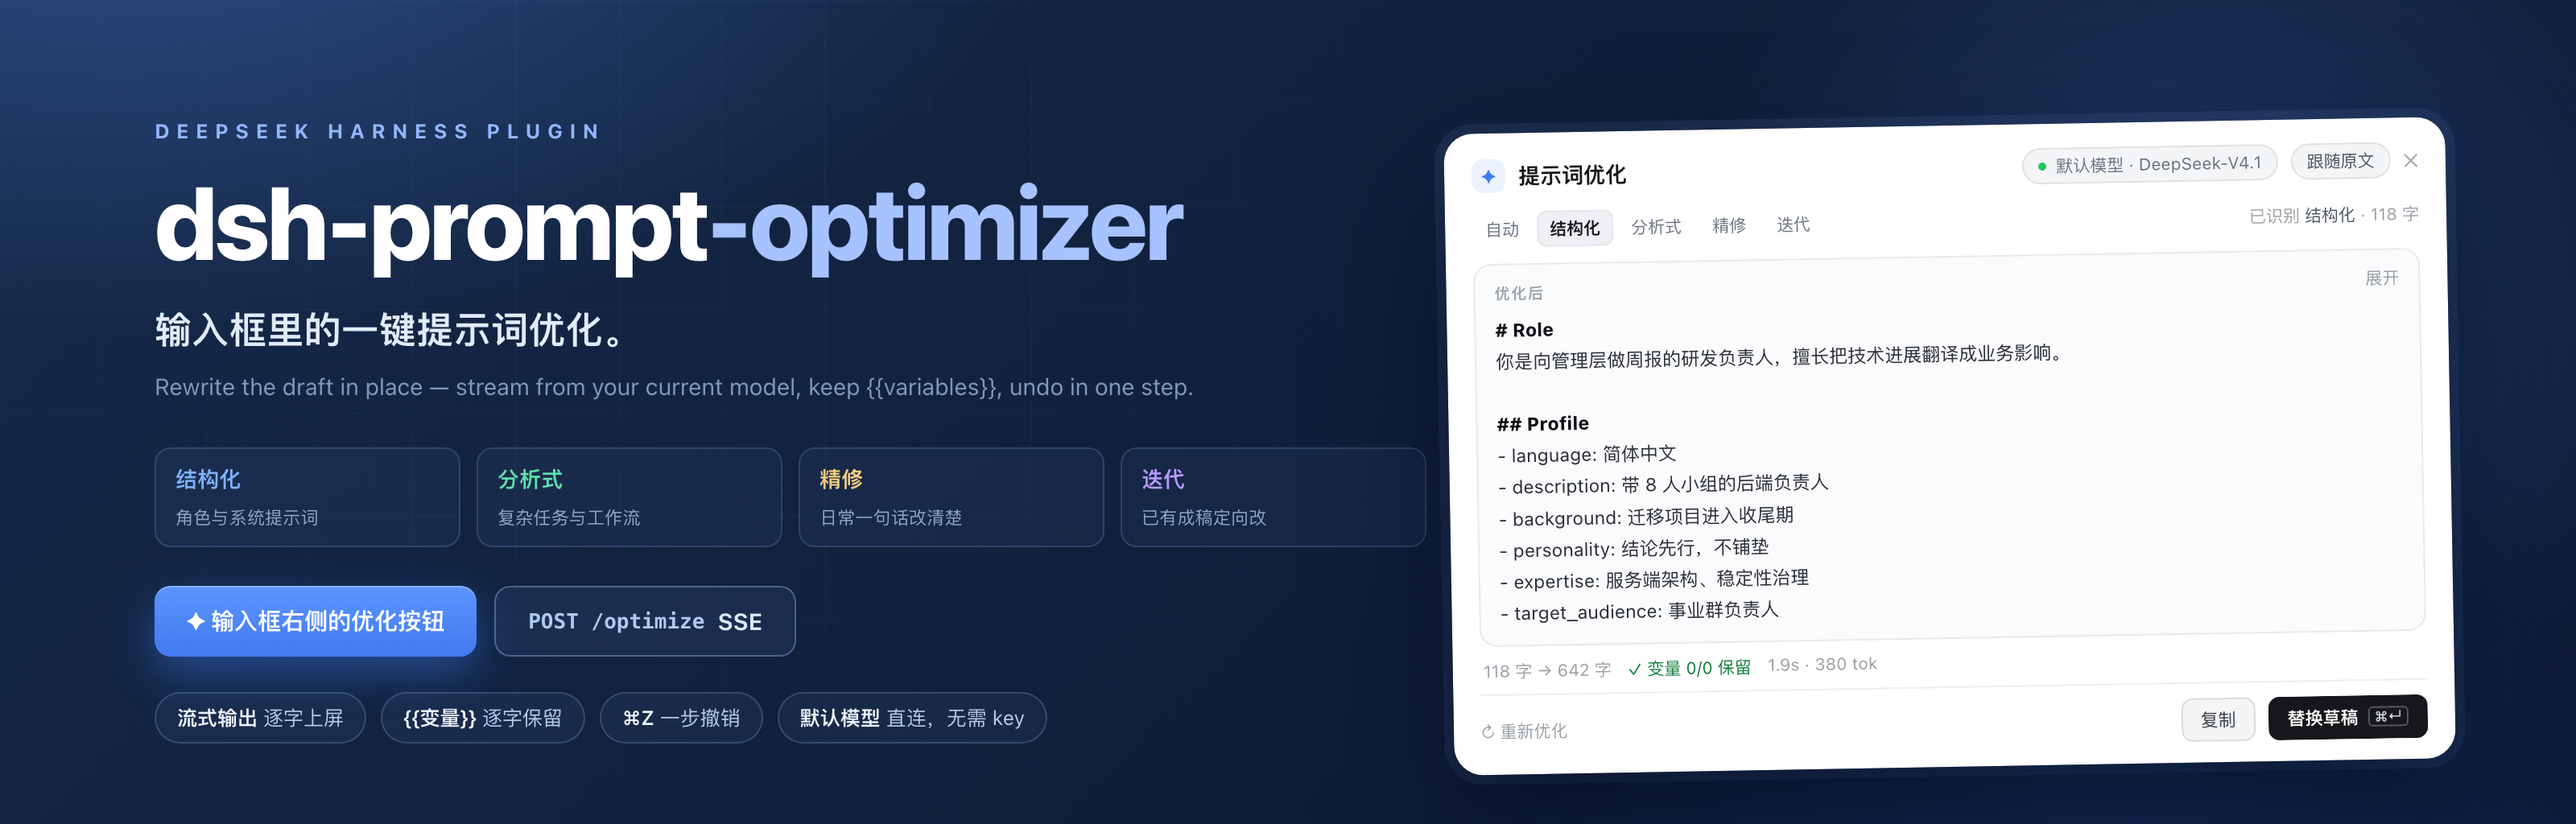
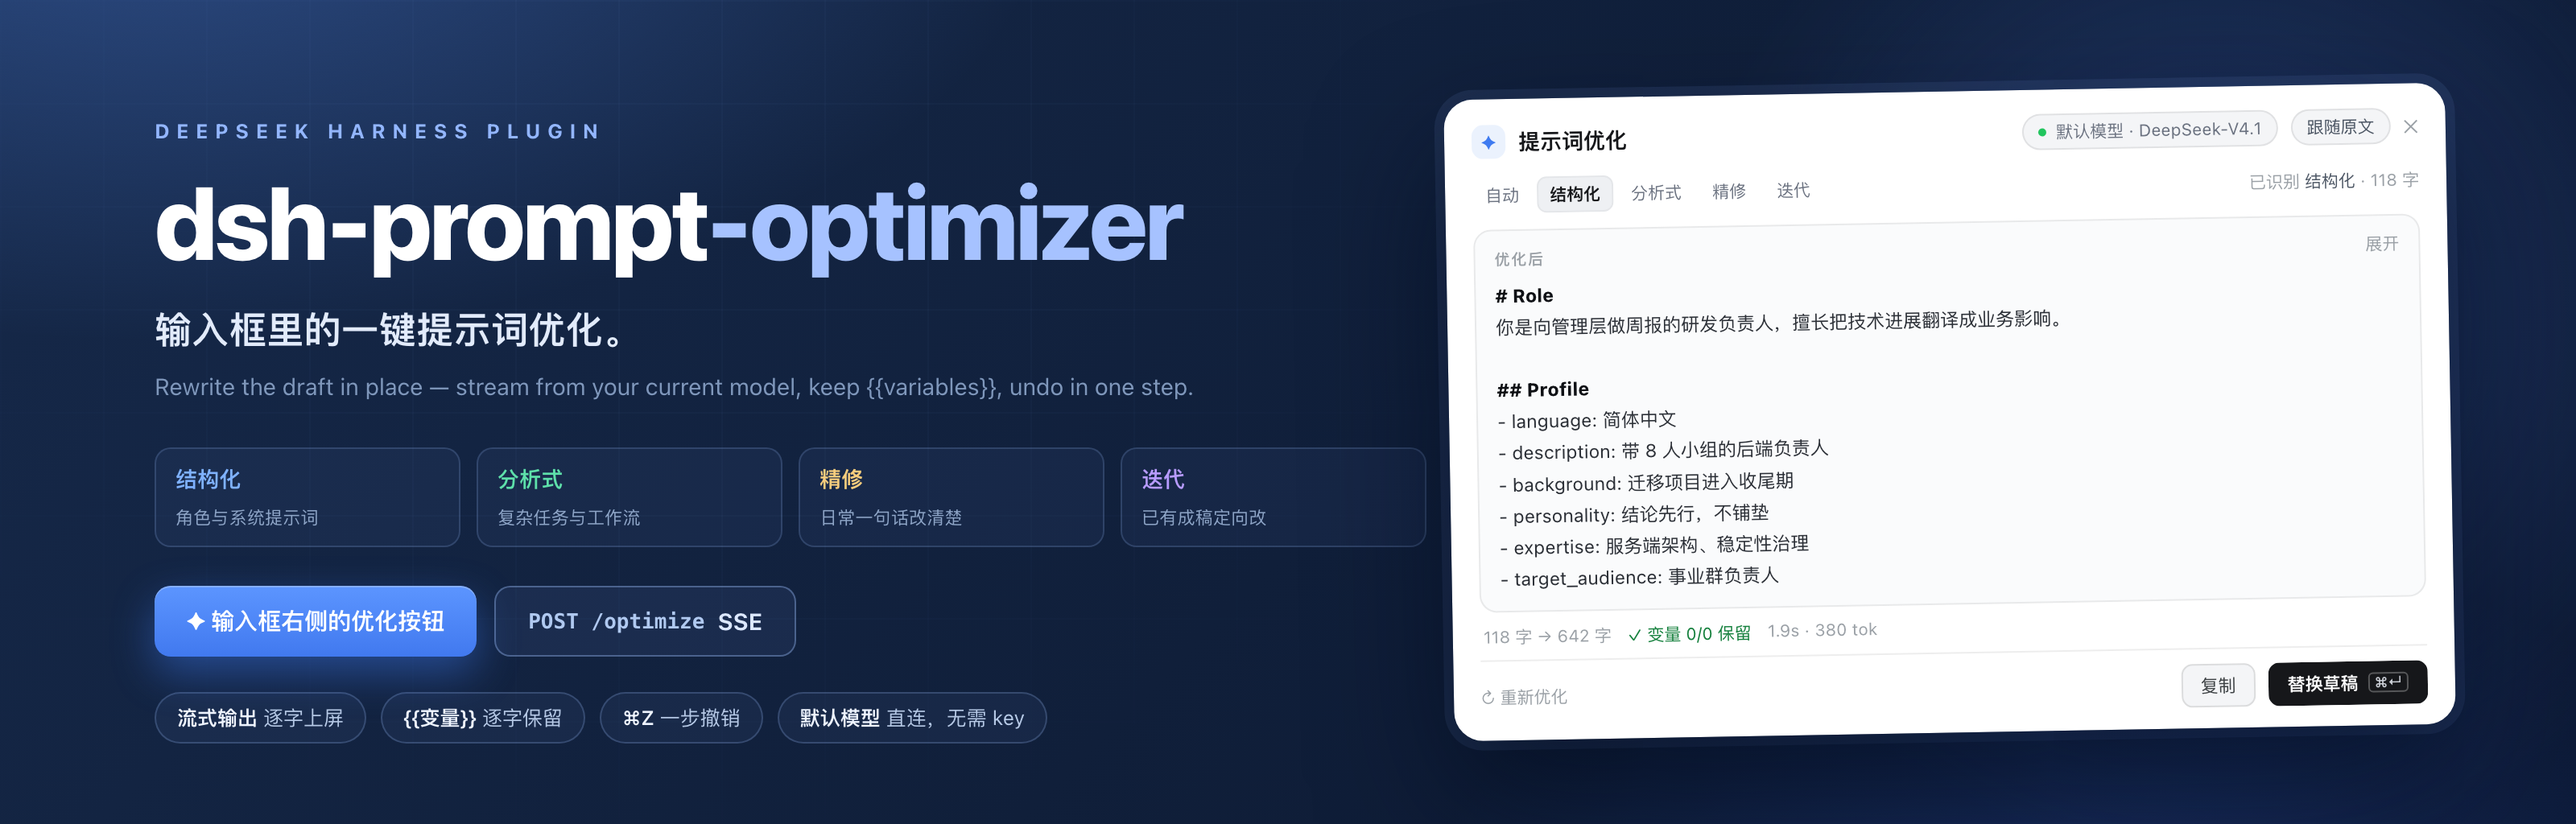
文档：中英双语入口、标题结构与徽章排布
标题下加分隔线与语言切换；徽章并到一行（npm 渲染会把换行当 <br>）；
新增 README.en.md；顶图右侧面板垂直居中。

Changed region(s): [[0.5625, 0.3438, 0.8125, 0.8125], [0.5625, 0.0938, 0.9688, 0.3125], [0.5625, 0.7812, 0.9688, 0.9375]]

diff --git a/README.en.md b/README.en.md
@@ -1,0 +1,194 @@
+![dsh-prompt-optimizer: prompt optimization inside the DeepSeek Harness composer](https://raw.githubusercontent.com/infcel/dsh-prompt-optimizer/main/docs/hero.png?v=2)
+
+<sub>UI mock-up: the model name, character counts and timings vary by environment.</sub>
+
+# @infcel/dsh-prompt-optimizer
+
+---
+
+[中文](README.md) · **English**
+
+![npm](https://img.shields.io/npm/v/@infcel/dsh-prompt-optimizer) ![license](https://img.shields.io/npm/l/@infcel/dsh-prompt-optimizer) ![tag](https://img.shields.io/github/v/tag/infcel/dsh-prompt-optimizer)
+
+**Prompt optimization.** Adds a **✦ optimize** button to the DeepSeek Harness composer: it rewrites the sentence you just typed into a prompt with clear structure and explicit constraints, puts it back in the composer, and one undo restores the original.
+
+npm [`@infcel/dsh-prompt-optimizer`](https://www.npmjs.com/package/@infcel/dsh-prompt-optimizer) · repo [infcel/dsh-prompt-optimizer](https://github.com/infcel/dsh-prompt-optimizer)
+
+The template ideas are ported from [linshenkx/prompt-optimizer](https://github.com/linshenkx/prompt-optimizer); the call path is DSH-native: **it uses the session's default model, so you don't configure a second API key**.
+
+---
+
+## Install in 30 seconds
+
+```
+# Desktop (install from the in-app plugin page, or have the agent call this tool)
+plugin_manager(action: "install_bundle", target: "@infcel/dsh-prompt-optimizer")
+
+# web / CLI profile (the Desktop profile is owned by Electron; this one errors with "managed exclusively")
+dsh plugin --profile web add @infcel/dsh-prompt-optimizer
+```
+
+Restart Harness (bundle/patch are a boot snapshot) → a **✦ optimize** button shows up right of the composer → type a draft and click it.
+
+Two places tell you it worked: the button beside the composer, and a "Prompt Optimizer" entry in the plugin manager.
+
+Requires DSH ≥ 0.2.0-rc.1 and Node 22.19+ or 24+ (see `engines` in `package.json`).
+
+Other install targets:
+
+| Form | target |
+| --- | --- |
+| npm package name | `@infcel/dsh-prompt-optimizer` |
+| offline tgz (from `npm run release`) | `/abs/path/infcel-dsh-prompt-optimizer-1.0.3.tgz` |
+| source directory under development | `<absolute path to this repo>` |
+
+Release process: [`RELEASING.md`](RELEASING.md).
+
+It looks roughly like this once installed (the composer at the bottom holds your draft):
+
+![Full panel: the optimize panel above the composer, and the button inside it](https://raw.githubusercontent.com/infcel/dsh-prompt-optimizer/main/docs/panel.png?v=2)
+
+## What it does and doesn't do
+
+| Does | Doesn't |
+| --- | --- |
+| Rewrites the wording and structure of the draft itself | Never executes the prompt — it won't do the task for you |
+| Uses the session's default model, no extra key | Produces no media, renders nothing |
+| Selection → rewrite only that span; no selection → whole draft | Keeps no history, favorites or template library |
+| Keeps `{{variables}}` verbatim and checks them | Never fills variables in |
+| Blocks the replace if the draft changed meanwhile | Never silently overwrites what you just typed |
+
+## Modes
+
+The panel switches modes at the top: **auto** picks one by text heuristics, the other four are manual.
+
+| Mode | Good for | What comes out |
+| --- | --- | --- |
+| Auto | You don't want to choose | Delegated to the heuristics below |
+| Structured | A reusable role prompt you'll keep | `# Role` + `## Profile / ## Skills / ## Rules / ## Workflows / ## Initialization`; Skills and Rules in three groups of four |
+| Analytical | Complex task, missing context or output format | `Role / Background / Attention / Profile / Skills / Goals / Constrains / Workflow / OutputFormat / Suggestions / Initialization`, most sections with five items |
+| Polish | One vague sentence you want to send as-is | Flattened into a single paragraph: adds audience, scope, constraints and output form, no headings or lists (at most 3× the original length) |
+| Iterate | You have a finished draft and want one change | Keeps the existing structure; folds "this is what to change" into the text |
+
+Auto-mode rules (`lib/heuristic.js`, the same file on client and host):
+
+| Condition | Result |
+| --- | --- |
+| 400+ chars and carries a skeleton (`{{variable}}`, `#` heading, `Role:`, or "You are …") | Structured |
+| 600+ chars and mentions steps / workflow / output format | Analytical |
+| Under 400 chars and no `#` heading | Polish |
+| Everything else | Analytical |
+
+Iterate mode adds one more input for your instruction, e.g. "shorter, keep the variables, add a don't-do list". It is a rewrite instruction, not a follow-up to the model — the plugin won't execute it.
+
+## Interaction details
+
+**Selection.** With a selection, only that span goes to the model and only that span is replaced; without one, the whole draft.
+
+**`@` references.** When the draft contains `@` reference chips, selection coordinates and string indices no longer share an origin, so it **always optimizes the whole draft** and shows a "contains @ references — optimizes the whole draft" banner. Better to rewrite too much than to write at the wrong offset.
+
+**Replace and undo.** It goes through `insertText`, one discrete undoable edit: ⌘Z (Ctrl+Z on Windows) restores in one step, not character by character. ⌘↵ in the result area replaces directly. A 4-second confirmation bar follows a successful replace.
+
+**Draft conflict.** If you edit the composer while a generation is running, the replace is blocked with "draft changed" and you must explicitly choose **overwrite with new result** — neither side's edits are swallowed silently.
+
+**Variables.** `{{names}}` are never added, removed, renamed or translated. After generation the plugin checks that every original variable is still there and names the missing ones in the meta row.
+
+**Oversized drafts.** The cap is 20,000 characters (`/meta` → `limits.maxChars`). It's rejected as soon as the panel opens, no round trip needed; the host keeps a 413 as a backstop.
+
+**Language.** UI copy follows the Harness language (Chinese / English); switching it re-renders the button and panel immediately, no reload. Output language is a separate setting: follow the source / 简体中文 / English.
+
+## Settings and state
+
+| Item | Value |
+| --- | --- |
+| Preferences | `localStorage` key `dsh.prompt-optimizer.prefs`, content `{mode, language}`; invalid values fall back to `auto` |
+| Model | Follows the Harness default; fallback chain below |
+| History | Nothing is persisted or logged; closing the panel discards it |
+
+Model selection order: current default selection → first model of that provider → first model of the first provider → otherwise 503 and the panel shows "no model service in this host".
+
+## Technical notes
+
+| Item | Value |
+| --- | --- |
+| Entry button | slot `conversation.input.right`, id `prompt-optimizer`, order 0 |
+| Floating panel | slot `conversation.input.overlay`, id `prompt-optimizer-panel`, order 20 |
+| Model calls | host `llm.stream()` + `agentDefaultModel.currentSelection()` |
+| Routes | `GET /api/dsh-prompt-optimizer/meta`, `POST …/classify`, `POST …/optimize` (SSE) |
+| Client parsing | SSE framing is inlined in `client.js`; unit tests feed it one byte at a time |
+
+**Theming.** The panel uses `bg-layer-1`, the result area `bg-base`: in dark mode they differ by one step (#232324 / #151517); in light mode both are pure white and only a 1px border separates them. That's the host's actual token behaviour — the plugin adds no colors of its own.
+
+![The same panel in dark mode](https://raw.githubusercontent.com/infcel/dsh-prompt-optimizer/main/docs/panel-dark.png?v=2)
+
+**Footprint.** Two registrations, one per composer sub-slot. It doesn't replace host nodes, never appends to `document.body`, styles only with `--dsw-alias-*` / `--dsw-*` tokens, injects its `<style data-plugin>` through `ctx.effect` so it goes away on unload, registers no window-level keyboard listeners, and talks to nothing but same-origin `/api/dsh-prompt-optimizer/*`.
+
+## Failure and degradation
+
+![Three failure states: draft conflict, no model service, upstream 429](https://raw.githubusercontent.com/infcel/dsh-prompt-optimizer/main/docs/states.png?v=2)
+
+| Situation | What the user sees |
+| --- | --- |
+| Host has no model service | Neutral info card ("no model service" + retry/cancel); the button still responds but sends nothing |
+| Upstream 429 / rate limit | Red bar with a readable reason + **retry** / **copy original** |
+| Draft over 20,000 chars | Rejected as the panel opens, with a hint to split it; host 413 as backstop |
+| Draft changed during generation | Yellow bar "draft changed" with **overwrite** and **cancel** |
+| Panel closed mid-stream | Request aborted, no uncaught error in the console |
+| Not signed in / expired token | Route returns 401 and the panel shows the reason in its error state |
+
+## Upgrade and rollback
+
+**Upgrade.** After changing `client.js`, **hard refresh** (⇧⌘R) — a normal refresh may hit the boot graph cache. Host-side changes (`index.js` / `lib/*`) need a restart.
+
+**Host upgrades.** If `conversation.input.right` / `conversation.input.overlay` are renamed or removed, registration fails, no button appears (no half-rendered UI), and the console shows the slot error the host raised. Point `SLOT_BUTTON` / `SLOT_PANEL` in `client.js` at the new names.
+
+**Rollback.**
+
+1. Disable: `plugin_manager(action: "set_plugin", target: "include:prompt-optimizer", enabled: false)`. Takes effect immediately on a live profile, no restart.
+2. Uninstall: `plugin_manager(action: "remove_bundle", target: "@infcel/dsh-prompt-optimizer")`, then drop the entry from the profile's `package.json` and `dsh.profile.bundles`.
+3. Backups taken before install: the profile's `package.json.bak-*` and `cordis.patch.yml.bak-*`; restore both and restart to get back to the pre-install state.
+
+`dsh.prompt-optimizer.prefs` in `localStorage` is not cleaned up automatically; delete it by hand (it only affects default modes).
+
+## FAQ
+
+**The button doesn't show up.** Confirm you restarted (not refreshed), then check that `include:prompt-optimizer` in `list_plugins` is `enabled=true` with `fiberPhase=active`.
+
+**It spins and produces nothing.** The upstream is streaming but the first token can be slow; the panel header shows the model name — make sure it isn't "model not ready".
+
+**The replace was blocked.** The draft changed during generation. Either **overwrite with new result** or **cancel** and run again.
+
+**Why does `curl` get 401 on these routes?** They sit behind the host's same-origin guard and only accept requests from a GUI session, which the command line doesn't have.
+
+## Development and tests
+
+```
+node --test test/*.test.mjs                                    # 47 passing
+node plugin-dev/scripts/plugin-check.mjs dsh-prompt-optimizer  # 1 PASS / 0 WARN / 0 FAIL
+node --check index.js lib/*.js client.js
+```
+
+Run `plugin-check` from the repo root (`plugins/`).
+
+`client.js` is a bundle (`window.__ModuleLoader__.load({id, factory})`) and **cannot** `require` the plugin's own `lib/*.js` — the client module loader resolves purely by module id. That's why SSE framing is inlined in `client.js`, and the tests grab the factory through a fake loader.
+
+### Verification status
+
+Verified on a real host (DSH Desktop, light and dark themes):
+
+- token-by-token streaming, stoppable mid-flight;
+- a selection rewrites only that span, the rest is untouched;
+- `@` references in the draft switch it to whole-draft mode, with a banner;
+- editing the draft during generation is blocked and can be explicitly overridden;
+- one ⌘Z restores the original; ⌘↵ replaces directly;
+- with no model in the host it enters the "no model service" state and sends nothing.
+
+**Not verified yet**: drafts over 20,000 characters (the guard has unit tests, the real hint was never triggered), an actual upstream 429 (the error state was verified by injection), and a post-restart check of `fiberPhase` plus both slot occupants.
+
+The dated, per-version log lives in [`docs/verification.md`](https://github.com/infcel/dsh-prompt-optimizer/blob/main/docs/verification.md).
+
+## License and credits
+
+Template structure and wording are based on [linshenkx/prompt-optimizer](https://github.com/linshenkx/prompt-optimizer) (AGPL-3.0); this plugin is a DSH-native rewrite of it.
+
+Because it rewrites upstream prompt templates, the plugin is released under **AGPL-3.0-or-later** as well: the full [`LICENSE`](LICENSE) is in the repo and `package.json` carries the same value. Keep the upstream attribution and repo link when redistributing. Upstream templates live in `packages/core/src/services/template/default-templates/`.

diff --git a/README.md b/README.md
@@ -2,9 +2,15 @@
 
 <sub>界面示意：实际模型名、字数与耗时随环境变化。</sub>
 
-# 提示词优化 · @infcel/dsh-prompt-optimizer
+# @infcel/dsh-prompt-optimizer
 
-给 DeepSeek Harness 的输入框加一个 **✦ 优化**：把随手写下的一句话，改写成结构清楚、约束明确的提示词，替换回输入框，一次撤销就能还原。
+---
+
+**中文** · [English](README.en.md)
+
+![npm](https://img.shields.io/npm/v/@infcel/dsh-prompt-optimizer) ![license](https://img.shields.io/npm/l/@infcel/dsh-prompt-optimizer) ![tag](https://img.shields.io/github/v/tag/infcel/dsh-prompt-optimizer)
+
+**提示词优化。** 给 DeepSeek Harness 的输入框加一个 **✦ 优化**：把随手写下的一句话，改写成结构清楚、约束明确的提示词，替换回输入框，一次撤销就能还原。
 
 npm [`@infcel/dsh-prompt-optimizer`](https://www.npmjs.com/package/@infcel/dsh-prompt-optimizer) · 仓库 [infcel/dsh-prompt-optimizer](https://github.com/infcel/dsh-prompt-optimizer)
 
@@ -15,7 +21,11 @@ npm [`@infcel/dsh-prompt-optimizer`](https://www.npmjs.com/package/@infcel/dsh-p
 ## 30 秒上手
 
 ```
+# Desktop（应用内插件管理页安装，或让 agent 调这个工具）
 plugin_manager(action: "install_bundle", target: "@infcel/dsh-prompt-optimizer")
+
+# web / CLI profile（Desktop 的 profile 由 Electron 独占，这条会报 managed exclusively）
+dsh plugin --profile web add @infcel/dsh-prompt-optimizer
 ```
 
 重启 Harness（bundle/patch 是启动快照）→ 输入框右侧出现 **✦ 优化** → 写一句草稿，点它。
